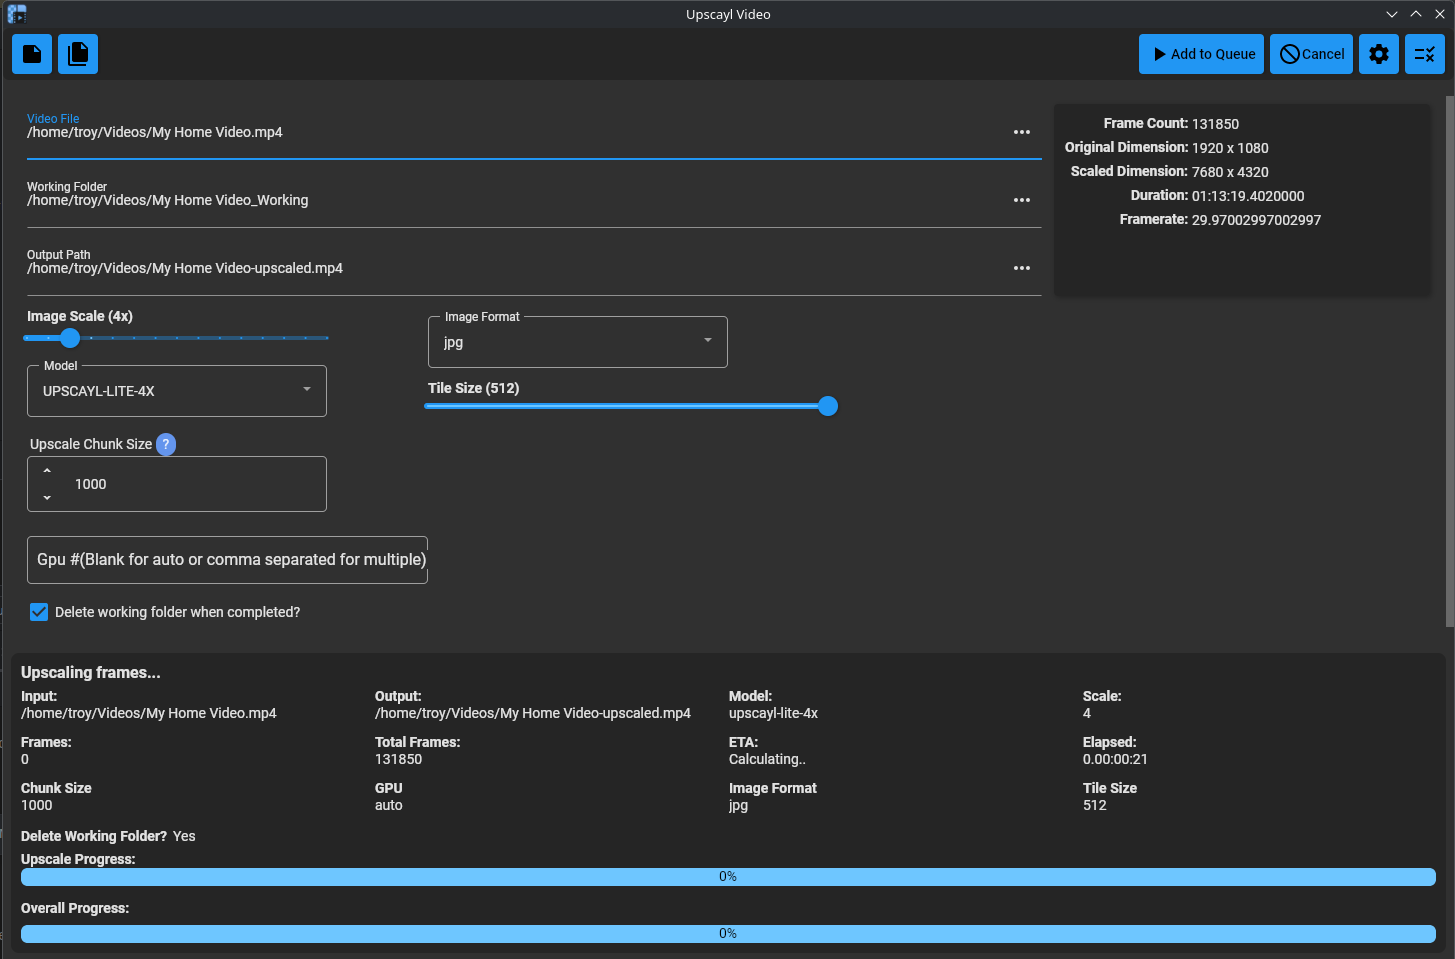
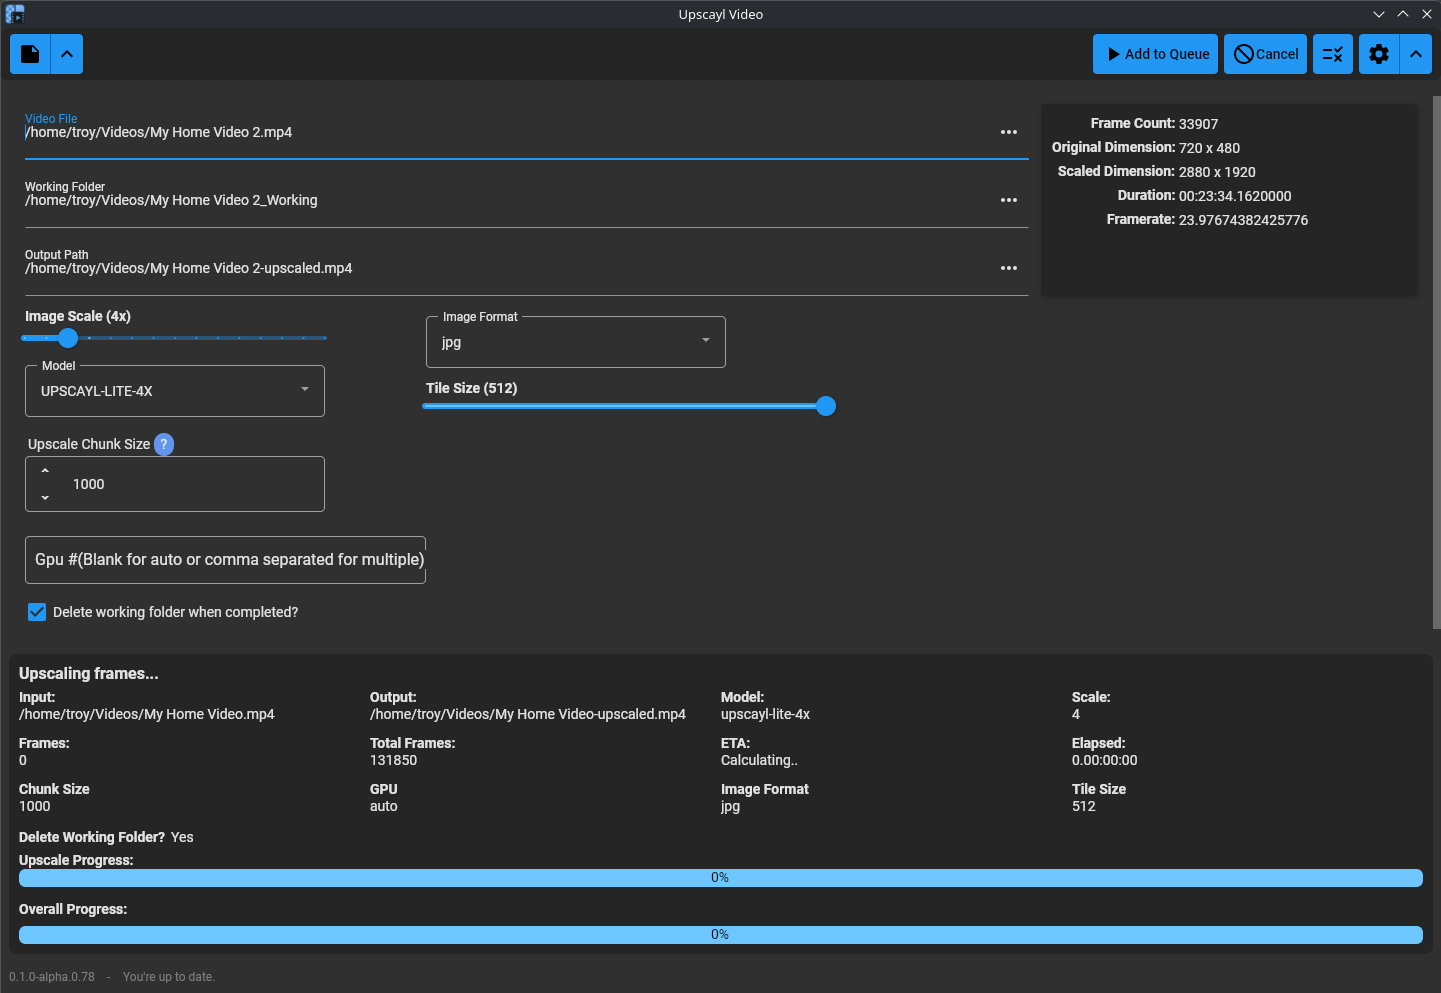
Updates screenshot to latest version

diff --git a/src/UpscaylVideo/ViewModels/QueuePageViewModel.cs b/src/UpscaylVideo/ViewModels/QueuePageViewModel.cs
@@ -39,8 +39,8 @@ public partial class QueuePageViewModel : PageBase
         _startButton.IsVisible = CanStart();
         _cancelButton.IsVisible = JobProcessingService.Instance.IsProcessing;
 
-        LeftToolStripControls = new Control[] { backBtn };
-        RightToolStripControls = new Control[] { _startButton, _cancelButton, clearBtn };
+        LeftToolStripControls = [backBtn];
+        RightToolStripControls = [_startButton, _cancelButton, clearBtn];
 
         // Update Start and Cancel button visibility when queue or processing state changes
         JobProcessingService.Instance.PropertyChanged += (s, e) =>
